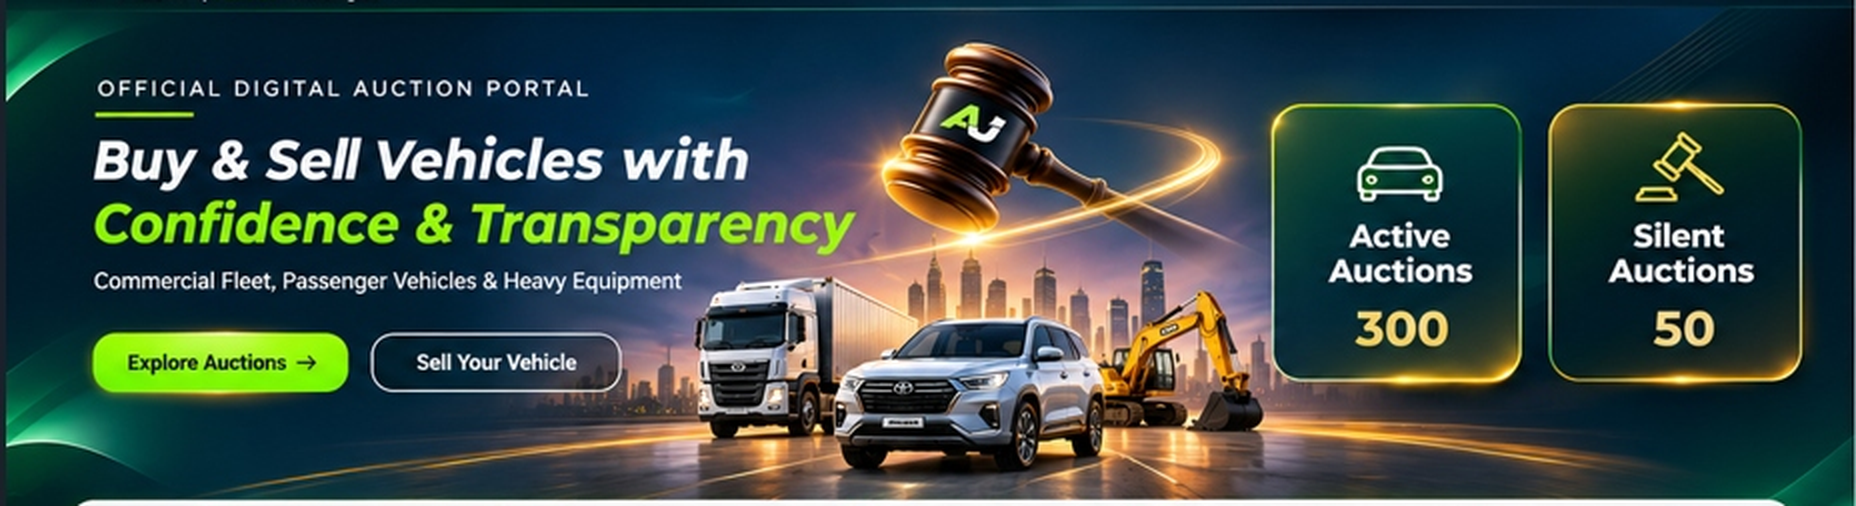
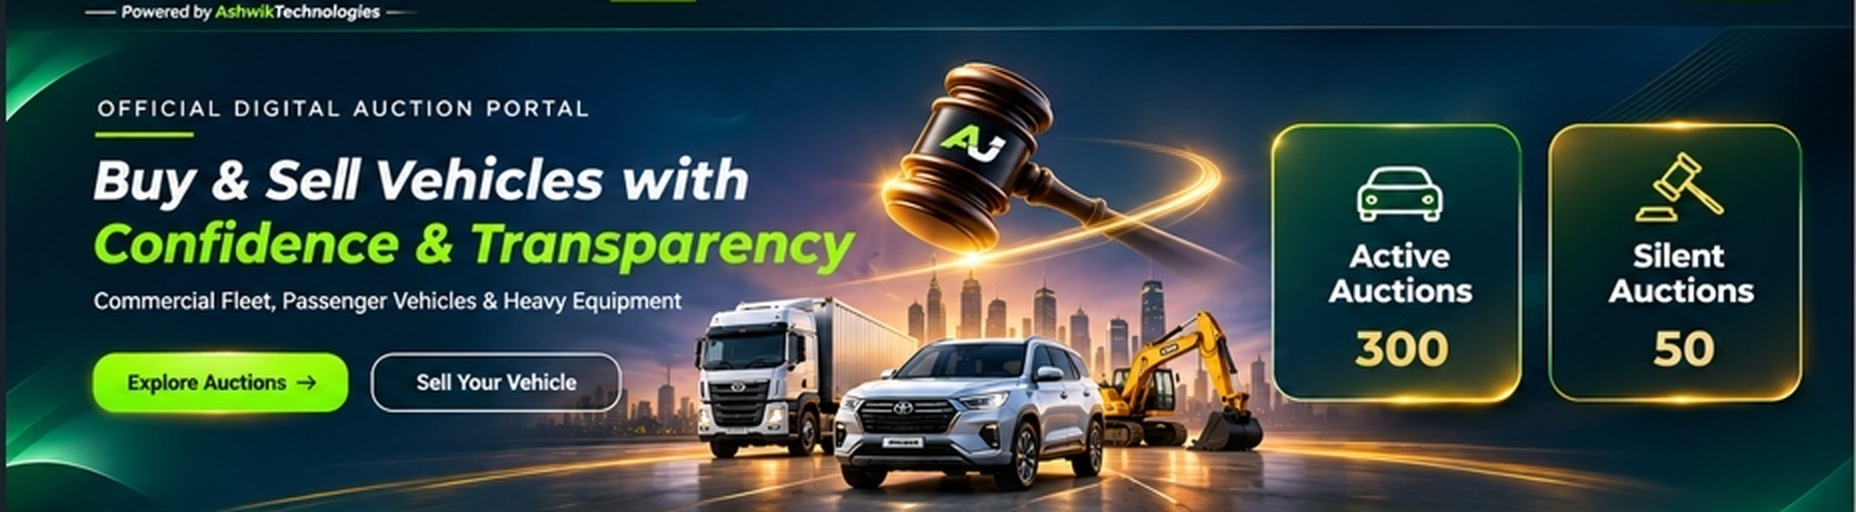
fix: deploy authentic 2K hero artwork with native neon boxes and calibrated hotspots

diff --git a/frontend/src/components/HomePage.tsx b/frontend/src/components/HomePage.tsx
@@ -105,28 +105,28 @@ export const HomePage: React.FC<HomePageProps> = ({
           {/* 1. Explore Auctions Button */}
           <button
             onClick={() => onNavigate('ONLINE_AUCTIONS')}
-            className="absolute left-[3.2%] bottom-[11%] w-[15.5%] h-[20%] rounded-full opacity-0 hover:opacity-20 hover:bg-white transition cursor-pointer"
+            className="absolute left-[4.3%] bottom-[10.2%] w-[14.5%] h-[19.5%] rounded-full opacity-0 hover:opacity-20 hover:bg-white transition cursor-pointer"
             title={lang === 'AR' ? 'استكشف المزادات' : 'Explore Auctions'}
           />
 
           {/* 2. Sell Your Vehicle Button */}
           <button
             onClick={() => onNavigate('SELLER_CREATE_LISTING')}
-            className="absolute left-[19.2%] bottom-[11%] w-[14%] h-[20%] rounded-full opacity-0 hover:opacity-20 hover:bg-white transition cursor-pointer"
+            className="absolute left-[19.9%] bottom-[10.2%] w-[13.5%] h-[19.5%] rounded-full opacity-0 hover:opacity-20 hover:bg-white transition cursor-pointer"
             title={lang === 'AR' ? 'اعرض مركبتك للبيع' : 'Sell Your Vehicle'}
           />
 
           {/* 3. Active Auctions Glowing Neon Box */}
           <button
             onClick={() => onNavigate('ONLINE_AUCTIONS')}
-            className="absolute right-[16.5%] top-[13%] w-[13.8%] h-[74%] rounded-2xl opacity-0 hover:opacity-25 hover:bg-emerald-400/20 hover:ring-2 hover:ring-emerald-400 transition cursor-pointer"
+            className="absolute left-[68.4%] top-[11.7%] w-[14.0%] h-[74.2%] rounded-2xl opacity-0 hover:opacity-30 hover:bg-emerald-400/20 hover:ring-2 hover:ring-emerald-400 transition cursor-pointer"
             title={lang === 'AR' ? 'عرض المزادات النشطة' : 'View Active Auctions'}
           />
 
           {/* 4. Silent Auctions Glowing Neon Box */}
           <button
             onClick={() => onNavigate('SILENT_AUCTIONS')}
-            className="absolute right-[1.8%] top-[13%] w-[13.8%] h-[74%] rounded-2xl opacity-0 hover:opacity-25 hover:bg-emerald-400/20 hover:ring-2 hover:ring-emerald-400 transition cursor-pointer"
+            className="absolute left-[83.5%] top-[11.7%] w-[14.0%] h-[74.2%] rounded-2xl opacity-0 hover:opacity-30 hover:bg-emerald-400/20 hover:ring-2 hover:ring-emerald-400 transition cursor-pointer"
             title={lang === 'AR' ? 'عرض المزادات الصامتة' : 'View Silent Auctions'}
           />
         </div>

diff --git a/frontend/src/components/TrustBadgesStrip.tsx b/frontend/src/components/TrustBadgesStrip.tsx
@@ -1,5 +1,5 @@
 import React from 'react';
-import { ShieldCheck, RefreshCw, Lock, CheckCircle2, Headphones } from 'lucide-react';
+import { ShieldCheck, ClipboardCheck, Coins, Award, Headphones } from 'lucide-react';
 import { Language } from './i18n';
 
 interface TrustBadgesStripProps {
@@ -11,22 +11,22 @@ export const TrustBadgesStrip: React.FC<TrustBadgesStripProps> = ({ isArabic: is
   const isArabic = lang === 'AR' || isArabicProp;
   const badges = [
     {
-      icon: CheckCircle2,
-      title: isArabic ? 'مركبات مفحوصة وموثقة' : 'Verified Vehicles',
+      icon: ShieldCheck,
+      title: isArabic ? 'مركبات موثقة ومفحوصة' : 'Verified Vehicles',
       desc: isArabic ? 'فحص فني شامل ومعتمد' : '150-Point Inspection',
     },
     {
-      icon: RefreshCw,
+      icon: ClipboardCheck,
       title: isArabic ? 'عملية شفافة' : 'Transparent Process',
       desc: isArabic ? 'مزايدة مباشرة دون رسوم خفية' : 'Zero Hidden Bidding Fees',
     },
     {
-      icon: Lock,
+      icon: Coins,
       title: isArabic ? 'مدفوعات آمنة' : 'Secure Payments',
       desc: isArabic ? 'حساب ضمان مصرفي إماراتي' : 'UAE Central Bank Escrow',
     },
     {
-      icon: ShieldCheck,
+      icon: Award,
       title: isArabic ? 'فحص فني متعدد النقاط' : 'Multi-Point Inspection',
       desc: isArabic ? 'تقارير فنية دقيقة ومعتمدة' : 'RTA & Tasjeel Certified',
     },
